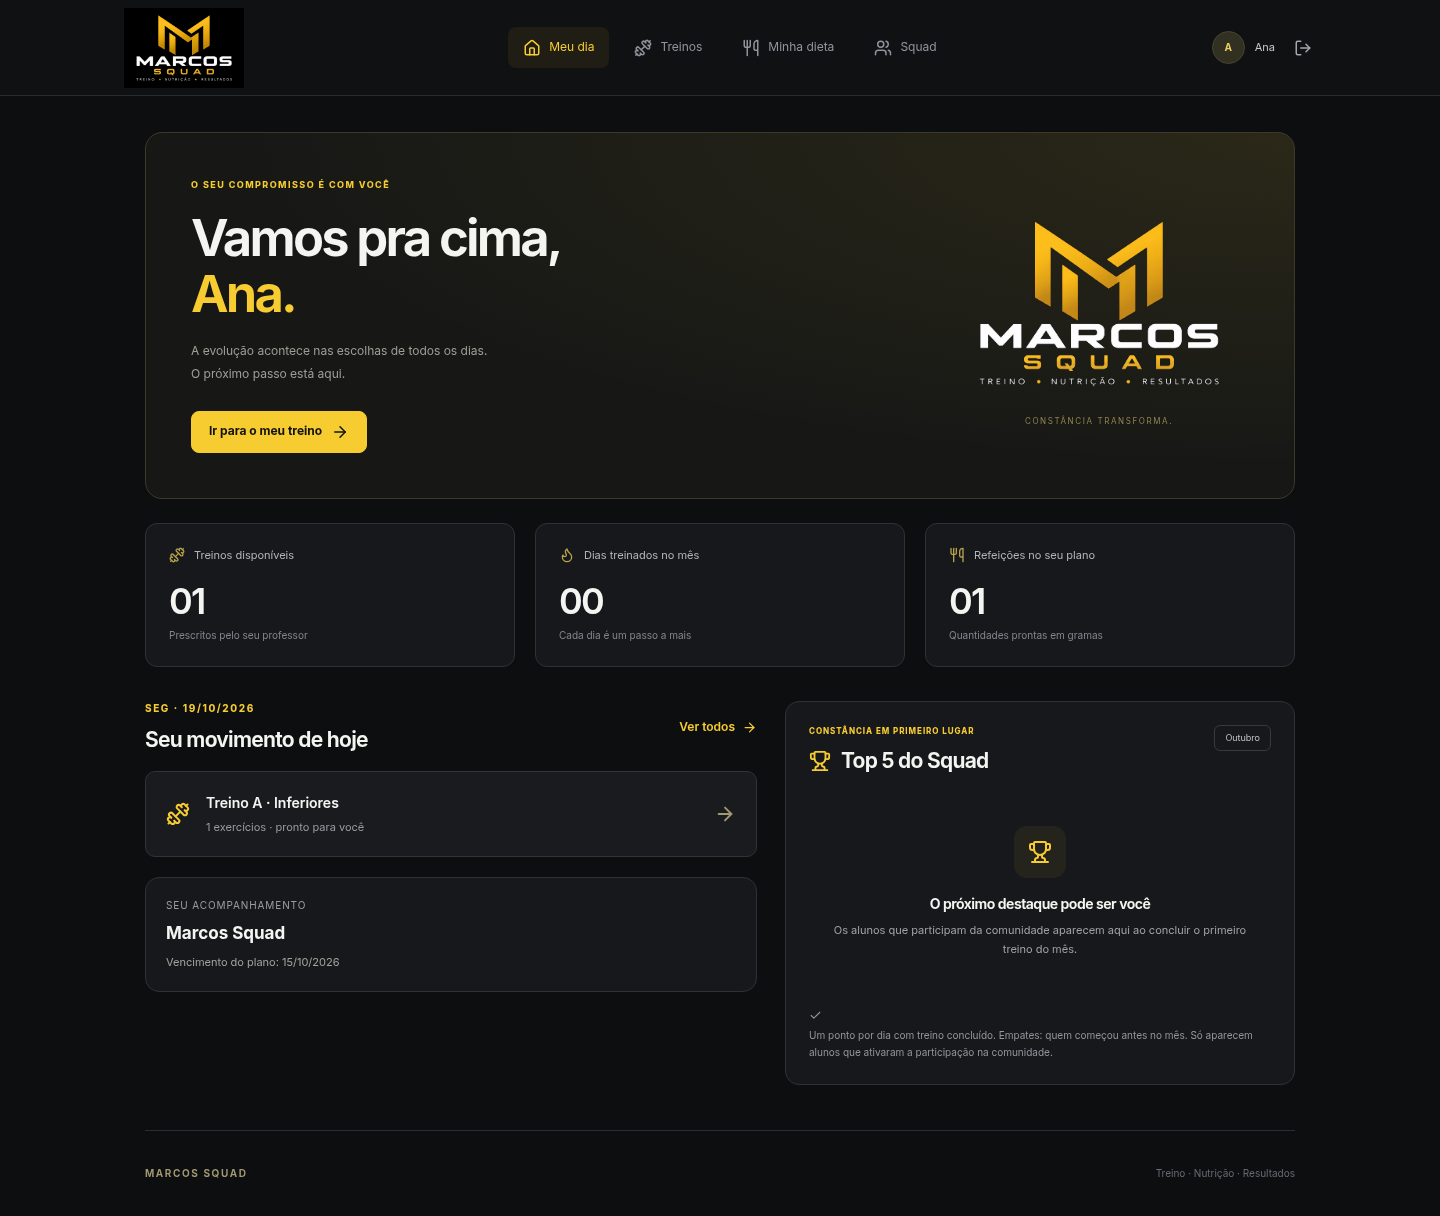
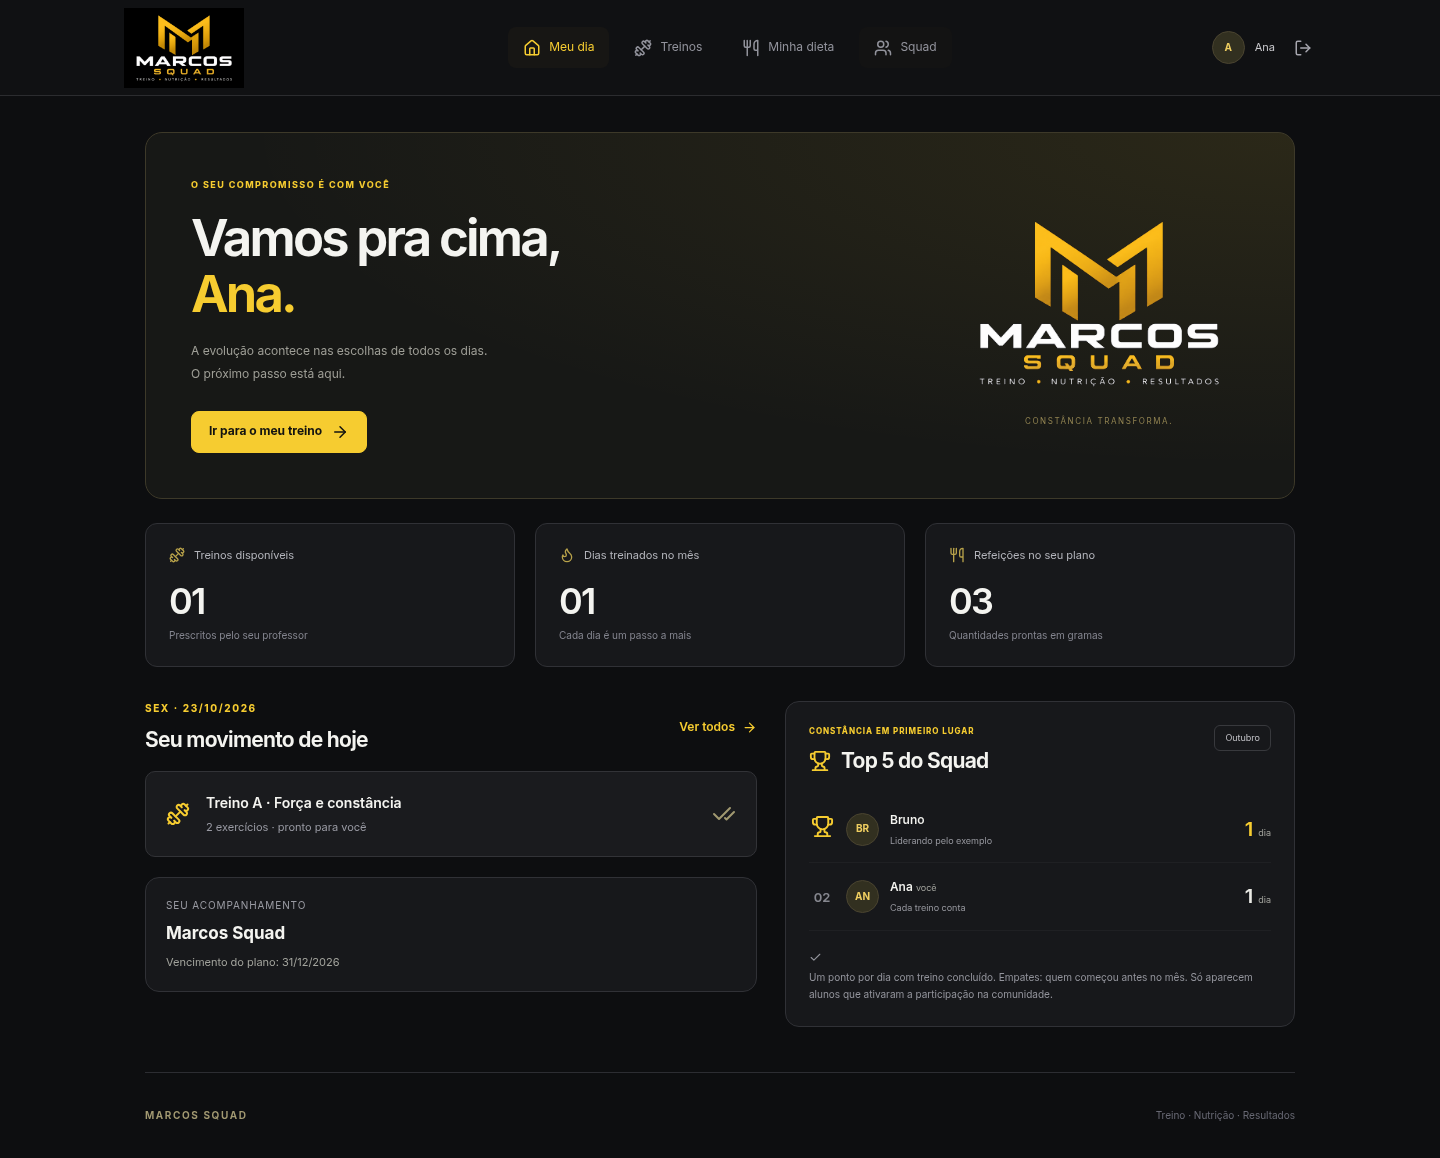
Corrige seleção de prescrições e acrescenta revisão antes da publicação
Inclui preflight sem exposição de credenciais, teste PostgreSQL de leitura, relatório e capturas com dados fictícios. Validação: 109 testes, lint, build e Chromium desktop/mobile. Conexão operacional Supabase–Vercel e deploy continuam pendentes.

diff --git a/src/FitnessCoach.tsx b/src/FitnessCoach.tsx
@@ -42,11 +42,6 @@ export default function FitnessCoach({ section }: { section: 'training' | 'nutri
     }
   }, []);
   useEffect(() => { let live = true; const timer = setTimeout(() => reload().catch(e => { if (live) setError(e.message); }).finally(() => { if (live) setLoading(false); }), 0); return () => { live = false; clearTimeout(timer); }; }, [reload]);
-  useEffect(() => {
-    let live = true;
-    if (selection.id) loadPrescription(selection).catch(e => { if (live) setError(e.message); });
-    return () => { live = false; };
-  }, [selection, loadPrescription]);
   async function refreshClient(target = selection) { await reload(); if (target.id && selectionRef.current === target) await loadPrescription(target); }
   async function action(work: () => Promise<void>) {
     const target = selection;
@@ -57,6 +52,7 @@ export default function FitnessCoach({ section }: { section: 'training' | 'nutri
     // A new selection identity also invalidates an earlier A → B → A request.
     const next = { id }; selectionRef.current = next; setSelection(next);
     setPrescription(null); setAccess(null); setWorkout(null); setDiet(null); setNotice(''); setError(''); setCopied(false);
+    if (id) void loadPrescription(next).catch(e => { if (selectionRef.current === next) setError(e.message); });
   }
   const client = clients.find(c => c.id === clientId);
   const filteredExercises = catalog?.exercises.filter(e => (!group || e.category === group) && normalized(`${e.name} ${e.equipment}`).includes(normalized(query))) || [];

diff --git a/docs/PUBLICACAO_STATUS.md b/docs/PUBLICACAO_STATUS.md
@@ -1,4 +1,4 @@
-# Estado do aplicativo — 22/10/2026
+# Estado do aplicativo — 23/10/2026
 
 A estratégia atual é React e API Node na Vercel, com PostgreSQL no Supabase. O usuário autorizou concluir e publicar; em seguida pediu testar e mostrar os resultados antes de publicar. Nenhum deploy na Vercel foi executado nesta etapa de revisão.
 
@@ -9,12 +9,14 @@ A estratégia atual é React e API Node na Vercel, com PostgreSQL no Supabase. O
 - Função Node 24 para a API, fallback React em /aluno, arquivos estáticos e cron protegido.
 - Migração versionada e importador SQLite/D1 com snapshot consistente, rollback e proteção contra substituição de um destino ocupado.
 - Fluxos de professor, aluno, financeiro, treinos, alimentação e comunidade preservados.
+- Carregamento da prescrição iniciado pela seleção do professor, preservando a proteção contra respostas antigas ao alternar rapidamente entre alunos.
+- Preflight de configuração e arquivos, com modo opcional de banco somente de leitura e sem exibir credenciais.
 
 ## Verificações
 
-104 testes automatizados passaram, sem falhas. Incluem integrações PostgreSQL/PGlite real em memória, migração/importação, autenticação, regras financeiras, isolamento entre alunos e runtime Vercel. O build React/TypeScript passou.
+109 testes automatizados passaram, sem falhas. Incluem integrações PostgreSQL/PGlite real em memória, migração/importação, autenticação, regras financeiras, isolamento entre alunos, runtime Vercel e preflight. O lint e o build React/TypeScript passaram.
 
-17 verificações no Chromium passaram em desktop 1440 px e celular 390×844. Foram testados login, painel, treino/vídeo/descanso/conclusão, dieta e comunidade. Não foram observados erros de JavaScript ou requisições falhas. Todos os dados eram fictícios.
+18 verificações no Chromium passaram em desktop 1440 px e celular 390×844. Foram testados login, painel, treino/vídeo/descanso/conclusão, dieta e comunidade. Não foram observados erros de JavaScript ou requisições falhas nas 38 respostas da API observadas. Um teste adicional confirmou que uma resposta atrasada na troca A → B → A não substitui a seleção atual. Todos os dados eram fictícios.
 
 A migração foi aplicada ao projeto Supabase avxdirsnlikufygnphoq. Uma consulta somente de leitura confirmou 20 tabelas com RLS, marcador correto da aplicação, sem acesso de schema para anon ou authenticated, e nenhum cliente ou contrato importado.
 
@@ -22,9 +24,13 @@ O teste de gravações e rollback no Supabase remoto foi recusado pela ferrament
 
 O aviso informativo rls_enabled_no_policy é esperado nesta arquitetura de schema privado e API no servidor. Nenhum acesso público foi concedido para suprimir esse aviso.
 
+O acesso ao projeto Vercel foi confirmado pelo ID no escopo padrão da conexão, o mesmo usado na criação. A consulta com seleção explícita do workspace retornou 403, mas não exige reconexão para este projeto. A lista de variáveis remotas está vazia; o vínculo local não as substitui.
+
+Uma leitura somente por contagens do SQLite local encontrou 9 clientes de demonstração e nenhum cliente regular. A origem Cloudflare/D1 não foi conferida nesta rodada; não confundir essas contagens com um inventário do banco remoto antigo.
+
 ## Pendências de publicação
 
-1. Configurar uma conexão operacional do Supabase e as credenciais somente do servidor na Vercel. Não reutilizar placeholders do ambiente Cloudflare como valores reais.
+1. Confirmar o Host do Transaction pooler em Connect no Supabase e configurar uma conexão operacional e as credenciais somente do servidor na Vercel. O conector disponível não expõe a configuração do pooler; o host não deve ser inferido pela região. Não reutilizar placeholders do ambiente Cloudflare como valores reais.
 2. Transferir os dados antigos, se houver, com origem congelada durante o corte e destino vazio. Nenhum dado real foi transferido nesta revisão.
 3. Validar a escrita no Supabase e realizar o deploy Vercel após a apresentação dos testes solicitada pelo usuário.
 4. Conferir a proteção adicional da Vercel para permitir acesso dos alunos e executar npm run verify:deployment com a URL confirmada.

diff --git a/README.md b/README.md
@@ -1,6 +1,6 @@
 # Marcos Squad — consultoria, treinos e nutrição
 
-Aplicativo em português para uma consultoria de treino e dieta, com painel do professor e área individual do aluno. A publicação atual foi adaptada para **React/TypeScript/Vite + API Node.js na Vercel + PostgreSQL no Supabase**. Os modos SQLite e Cloudflare/D1 anteriores foram mantidos para compatibilidade e testes.
+Aplicativo em português para uma consultoria de treino e dieta, com painel do professor e área individual do aluno. A arquitetura atual usa **React/TypeScript/Vite + API Node.js na Vercel + PostgreSQL no Supabase**. A implantação na Vercel ainda depende das configurações de servidor e da revisão antes da publicação. Os modos SQLite e Cloudflare/D1 anteriores foram mantidos para compatibilidade e testes.
 
 Inclui biblioteca de 45 exercícios com vídeo, opção de vídeos do YouTube, 591 alimentos TACO, prescrições em gramas, registro de treinos, top 5 mensal e comunidade com fotos, curtidas e comentários. Veja o [guia do aplicativo e dos acessos dos alunos](docs/APP_ALUNOS.md).
 
@@ -93,6 +93,7 @@ O primeiro comando valida o pacote sem publicar. O segundo exige `CLOUDFLARE_API
 npm test
 npm run lint
 npm run build
+npm run preflight
 ```
 
-Os testes validam datas, financeiro, autenticação, isolamento entre alunos, APIs, persistência SQLite/D1, PostgreSQL real em memória com PGlite, adaptação Node/Vercel e migração/importação. Dados de teste são isolados dos dados de uso. Testes PGlite não substituem a verificação da conexão ao Supabase e do deploy real da Vercel. O pacote Workers anterior ainda pode ser verificado com `npm run cloud:check`.
+Os testes validam datas, financeiro, autenticação, isolamento entre alunos, APIs, persistência SQLite/D1, PostgreSQL real em memória com PGlite, adaptação Node/Vercel e migração/importação. Dados de teste são isolados dos dados de uso. Testes PGlite não substituem a verificação da conexão ao Supabase e do deploy real da Vercel. O preflight falha enquanto as configurações necessárias estiverem ausentes; não publica nem revela credenciais. Veja os [resultados e telas da revisão](docs/TESTES_SUPABASE_VERCEL.md). O pacote Workers anterior ainda pode ser verificado com `npm run cloud:check`.

diff --git a/docs/TESTES_SUPABASE_VERCEL.md b/docs/TESTES_SUPABASE_VERCEL.md
@@ -1,15 +1,18 @@
-# Verificação antes da publicação — 22/10/2026
+# Verificação antes da publicação — 23/10/2026
 
 | Verificação | Resultado |
 | --- | --- |
-| Testes automatizados | 104 passaram; 0 falhas |
-| Chromium desktop e celular | 17 verificações passaram |
+| Testes automatizados | 109 passaram; 0 falhas |
+| Chromium desktop e celular | 18 verificações passaram |
+| Respostas atrasadas na seleção de aluno | Troca A → B → A mantém a prescrição atual |
 | Erros de JavaScript | 0 |
 | Requisições falhas no fluxo visual | 0 |
 | Compilação React/TypeScript | Aprovada |
+| ESLint | Aprovado |
 | Schema Supabase remoto | 20 tabelas com RLS, sem acesso anônimo |
 | Gravação no Supabase remoto | Não executada: solicitação recusada |
 | Deploy Vercel | Não executado nesta revisão |
+| Variáveis remotas Vercel | Lista vazia; configuração pendente |
 
 Os fluxos locais usaram PostgreSQL/PGlite real em memória, a função Node da Vercel e o React compilado para publicação. Os clientes, códigos, prescrições e publicações eram fictícios. Nenhum dado pessoal real ou credencial de produção foi usado.
 
@@ -19,4 +22,12 @@ Os testes de importação detectaram e levaram à correção de leitura inconsis
 
 A migração foi aplicada ao Supabase e a estrutura conferida por consulta de leitura. O teste remoto de escrita foi recusado. A conexão operacional Vercel–Supabase e o aplicativo online ainda não foram validados.
 
-Repetir com npm test e npm run build. Após publicar, executar npm run verify:deployment -- https://URL-CONFIRMADA.
+Repetir com npm test, npm run lint e npm run build. npm run preflight informa as configurações ausentes sem revelar valores; --database acrescenta consultas somente de leitura. Após publicar, executar npm run verify:deployment -- https://URL-CONFIRMADA.
+
+## Telas com dados fictícios
+
+![Painel do professor](previews/painel-professor.png)
+
+![Treino do aluno](previews/treino-aluno.png)
+
+![Dieta no celular](previews/dieta-celular.png)

diff --git a/docs/SUPABASE_VERCEL.md b/docs/SUPABASE_VERCEL.md
@@ -54,8 +54,12 @@ A proteção adicional da própria Vercel precisa ser conferida antes de compart
 
 ```bash
 npm test
+npm run lint
 npm run build
+npm run preflight
 ```
+
+O preflight verifica arquivos e nomes das configurações no processo, sem ler `.env` nem exibir seus valores. Falha enquanto faltarem `SUPABASE_DB_URL`, `DASHBOARD_PASSWORD` ou `CRON_SECRET`. Com as variáveis fornecidas de forma segura ao processo, `npm run preflight -- --database` também confere a identidade do aplicativo, colunas e checksums das migrações em uma transação somente de leitura. Não migra, importa, inicializa dados nem publica. O vínculo local não comprova acesso à conta Vercel.
 
 Os testes usam apenas dados fictícios. PGlite executa o PostgreSQL real em memória, mas não comprova rede, TLS ou o comportamento de duas conexões independentes do pooler remoto. Após publicar, execute:
 
